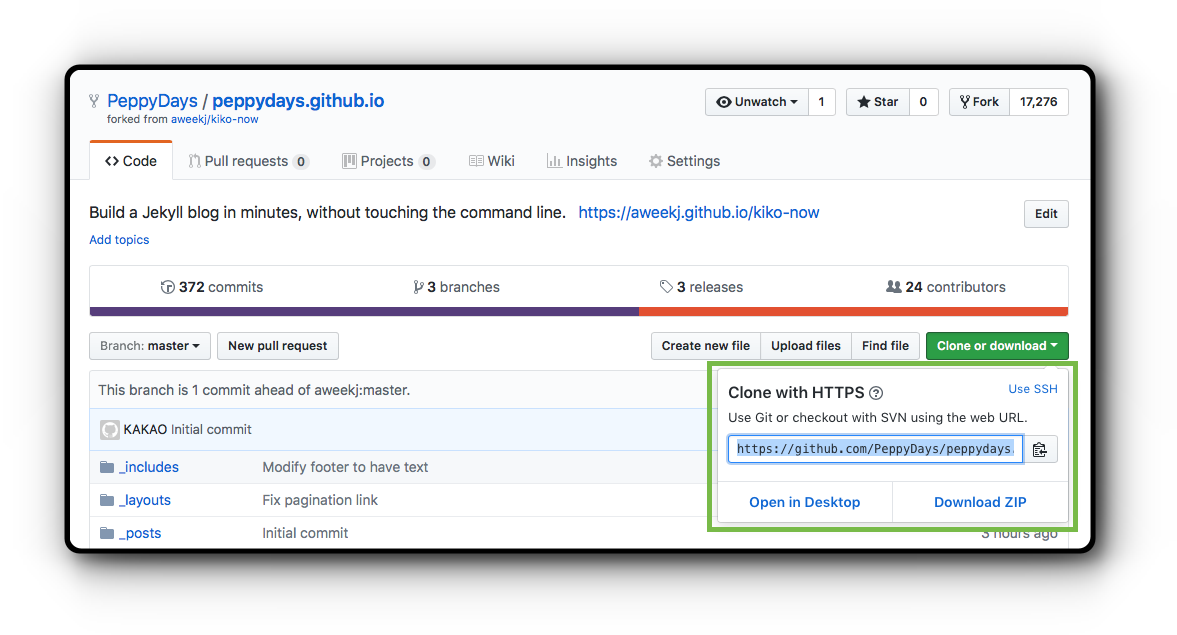
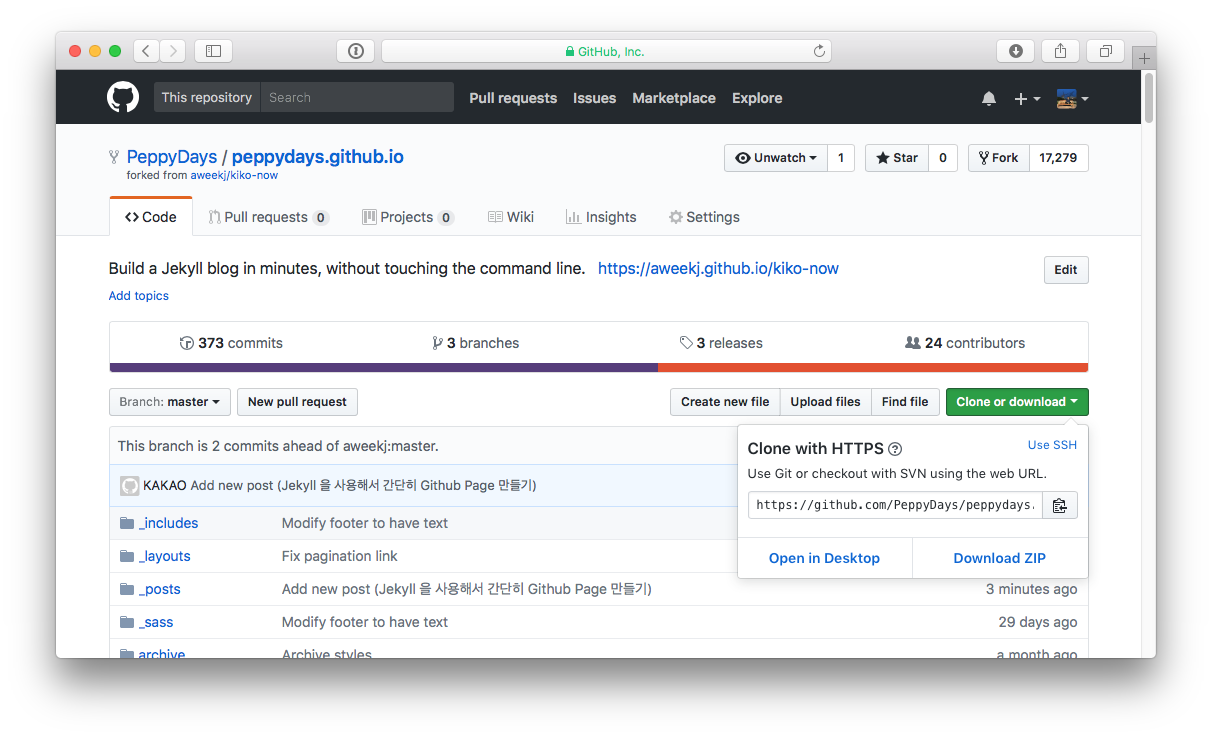
Modified a post (Jekyll 을 사용해서 간단히 Github Page 만들기)

Changed region(s): [[0.0306, 0.0598, 0.9788, 0.9575]]

diff --git a/_posts/2017-11-06-install-jekyll-github-page.md b/_posts/2017-11-06-install-jekyll-github-page.md
@@ -48,8 +48,6 @@ tags: [blog, jekyll, github page]
 
 ![Github Repository Fork]({{ site.url }}/images/2017-11-06-install-jekyll-github-page/github-repository-fork.png){: .center-image}
 
-![Github Repository Fork Target]({{ site.url }}/images/2017-11-06-install-jekyll-github-page/github-repository-fork-target.png){: .center-image}
-
 그러면 수십초 안에 내 Repository 에 Fork 한 Repository 가 나타난다.
 
 Github Page 는 {사용자명}.github.io 일 때만 우리가 원하는 대로 동작하기 때문에, Fork 한 Repository 의 Settings 로 들어가서 Repository Name 을 아래처럼 변경해야 한다.
